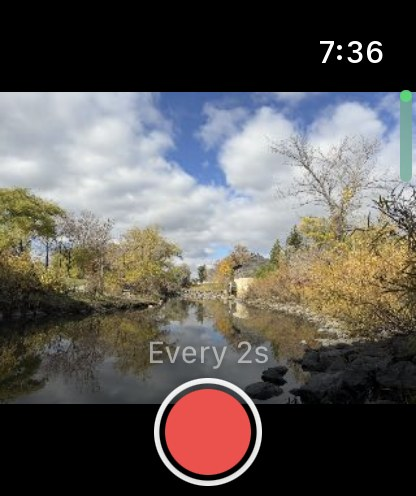
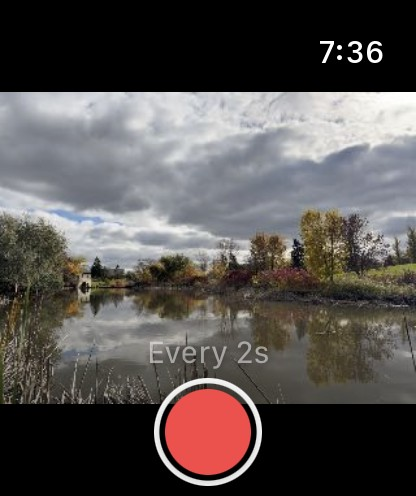
iPhone and iPad wording; real Apple Watch screenshots (D-778)

diff --git a/index.html b/index.html
@@ -4,7 +4,7 @@
 <meta charset="utf-8">
 <meta name="viewport" content="width=device-width, initial-scale=1">
 <title>LapseCraft</title>
-<meta name="description" content="LapseCraft is a timelapse camera and editor for iPhone, with an Apple Watch remote: day-to-night exposure, deflicker, star trails, speed ramps and export up to 6K.">
+<meta name="description" content="LapseCraft is a timelapse camera and editor for iPhone and iPad, with an Apple Watch remote: day-to-night exposure, deflicker, star trails, speed ramps and export up to 6K.">
 <link rel="icon" href="img/icon.png">
 <link rel="apple-touch-icon" href="img/icon.png">
 <link rel="stylesheet" href="style.css?v=2026-10-20f">
@@ -32,9 +32,9 @@
 
 
 <h1>A timelapse camera and editor in one app</h1>
-<p class="sub">For iPhone · Coming soon to the App Store</p>
+<p class="sub">For iPhone and iPad · Coming soon to the App Store</p>
 
-<p class="lead">Shoot for minutes or for hours, fix the flicker, add star trails, and export a finished video, all on your iPhone. No account, and nothing leaves the phone.</p>
+<p class="lead">Shoot for minutes or for hours, fix the flicker, add star trails, and export a finished video, all on your iPhone or iPad. No account, and nothing leaves the phone.</p>
 
 <div class="features">
   <section>
@@ -47,8 +47,8 @@
       <li>Focus peaking and a live histogram.</li>
       <li>An Apple Watch remote: start and stop the shoot, and see the camera's view, from your wrist.
         <div class="watch">
-          <img src="img/watch-shooting.jpg" width="416" height="496" loading="lazy" alt="LapseCraft on Apple Watch while shooting: the running time, 13 frames every 1.5 seconds, and the stop button over the camera's view of a pond.">
-          <img src="img/watch-ready.jpg" width="416" height="496" loading="lazy" alt="LapseCraft on Apple Watch, ready to shoot every 2 seconds, with the camera's view of a creek and the record button.">
+          <img src="img/watch-shooting.jpg" width="416" height="496" loading="lazy" alt="LapseCraft on Apple Watch while shooting: the running time, 408 frames every 2 seconds, the battery's remaining time, and the stop button over the camera's view of a pond.">
+          <img src="img/watch-ready.jpg" width="416" height="496" loading="lazy" alt="LapseCraft on Apple Watch, ready to shoot every 2 seconds, with the camera's view of a pond and the record button.">
         </div>
       </li>
     </ul>
@@ -100,10 +100,10 @@
 
 
 <h2>Private</h2>
-<p>No account, no ads, no analytics. The app never connects to the internet, and your photos and videos stay on your iPhone.</p>
+<p>No account, no ads, no analytics. The app never connects to the internet, and your photos and videos stay on your iPhone or iPad.</p>
 
 <h2>What you need</h2>
-<p>An iPhone with iOS 18 or later. RAW, ProRAW, 48 MP and HDR capture appear on the iPhones that support them. The Apple Watch remote needs watchOS 11 or later.</p>
+<p>An iPhone or iPad with iOS 18 or later. RAW, ProRAW, 48 MP and HDR capture appear on the iPhones and iPads that support them. The Apple Watch remote needs watchOS 11 or later.</p>
 
 <nav><a href="support.html">Support</a> · <a href="privacy.html">Privacy Policy</a> · <a href="https://www.instagram.com/lapsecraftapp">Instagram</a></nav>
 </body>

diff --git a/privacy.html b/privacy.html
@@ -10,7 +10,7 @@
 <h1>LapseCraft Privacy Policy</h1>
 <p class="sub">Effective 13 October 2026</p>
 
-<p>LapseCraft is a timelapse camera and editor for iPhone, made by Christopher Calvert. This page says what the app does with your information. The short version: it collects nothing.</p>
+<p>LapseCraft is a timelapse camera and editor for iPhone and iPad, made by Christopher Calvert. This page says what the app does with your information. The short version: it collects nothing.</p>
 
 <h2>What the app collects</h2>
 <p>Nothing. LapseCraft has no accounts, no analytics, no advertising and no tracking. It never connects to the internet, so nothing you shoot or do in the app is sent to the developer or to anyone else.</p>

diff --git a/support.html b/support.html
@@ -8,7 +8,7 @@
 </head>
 <body>
 <h1>LapseCraft Support</h1>
-<p class="sub">Timelapse camera and editor for iPhone</p>
+<p class="sub">Timelapse camera and editor for iPhone and iPad</p>
 
 <p>For help, a bug report or a suggestion, email <a href="mailto:Lacony9x@gmail.com">Lacony9x@gmail.com</a>. It helps to say which iPhone you have, what you were doing, and what happened.</p>
 
